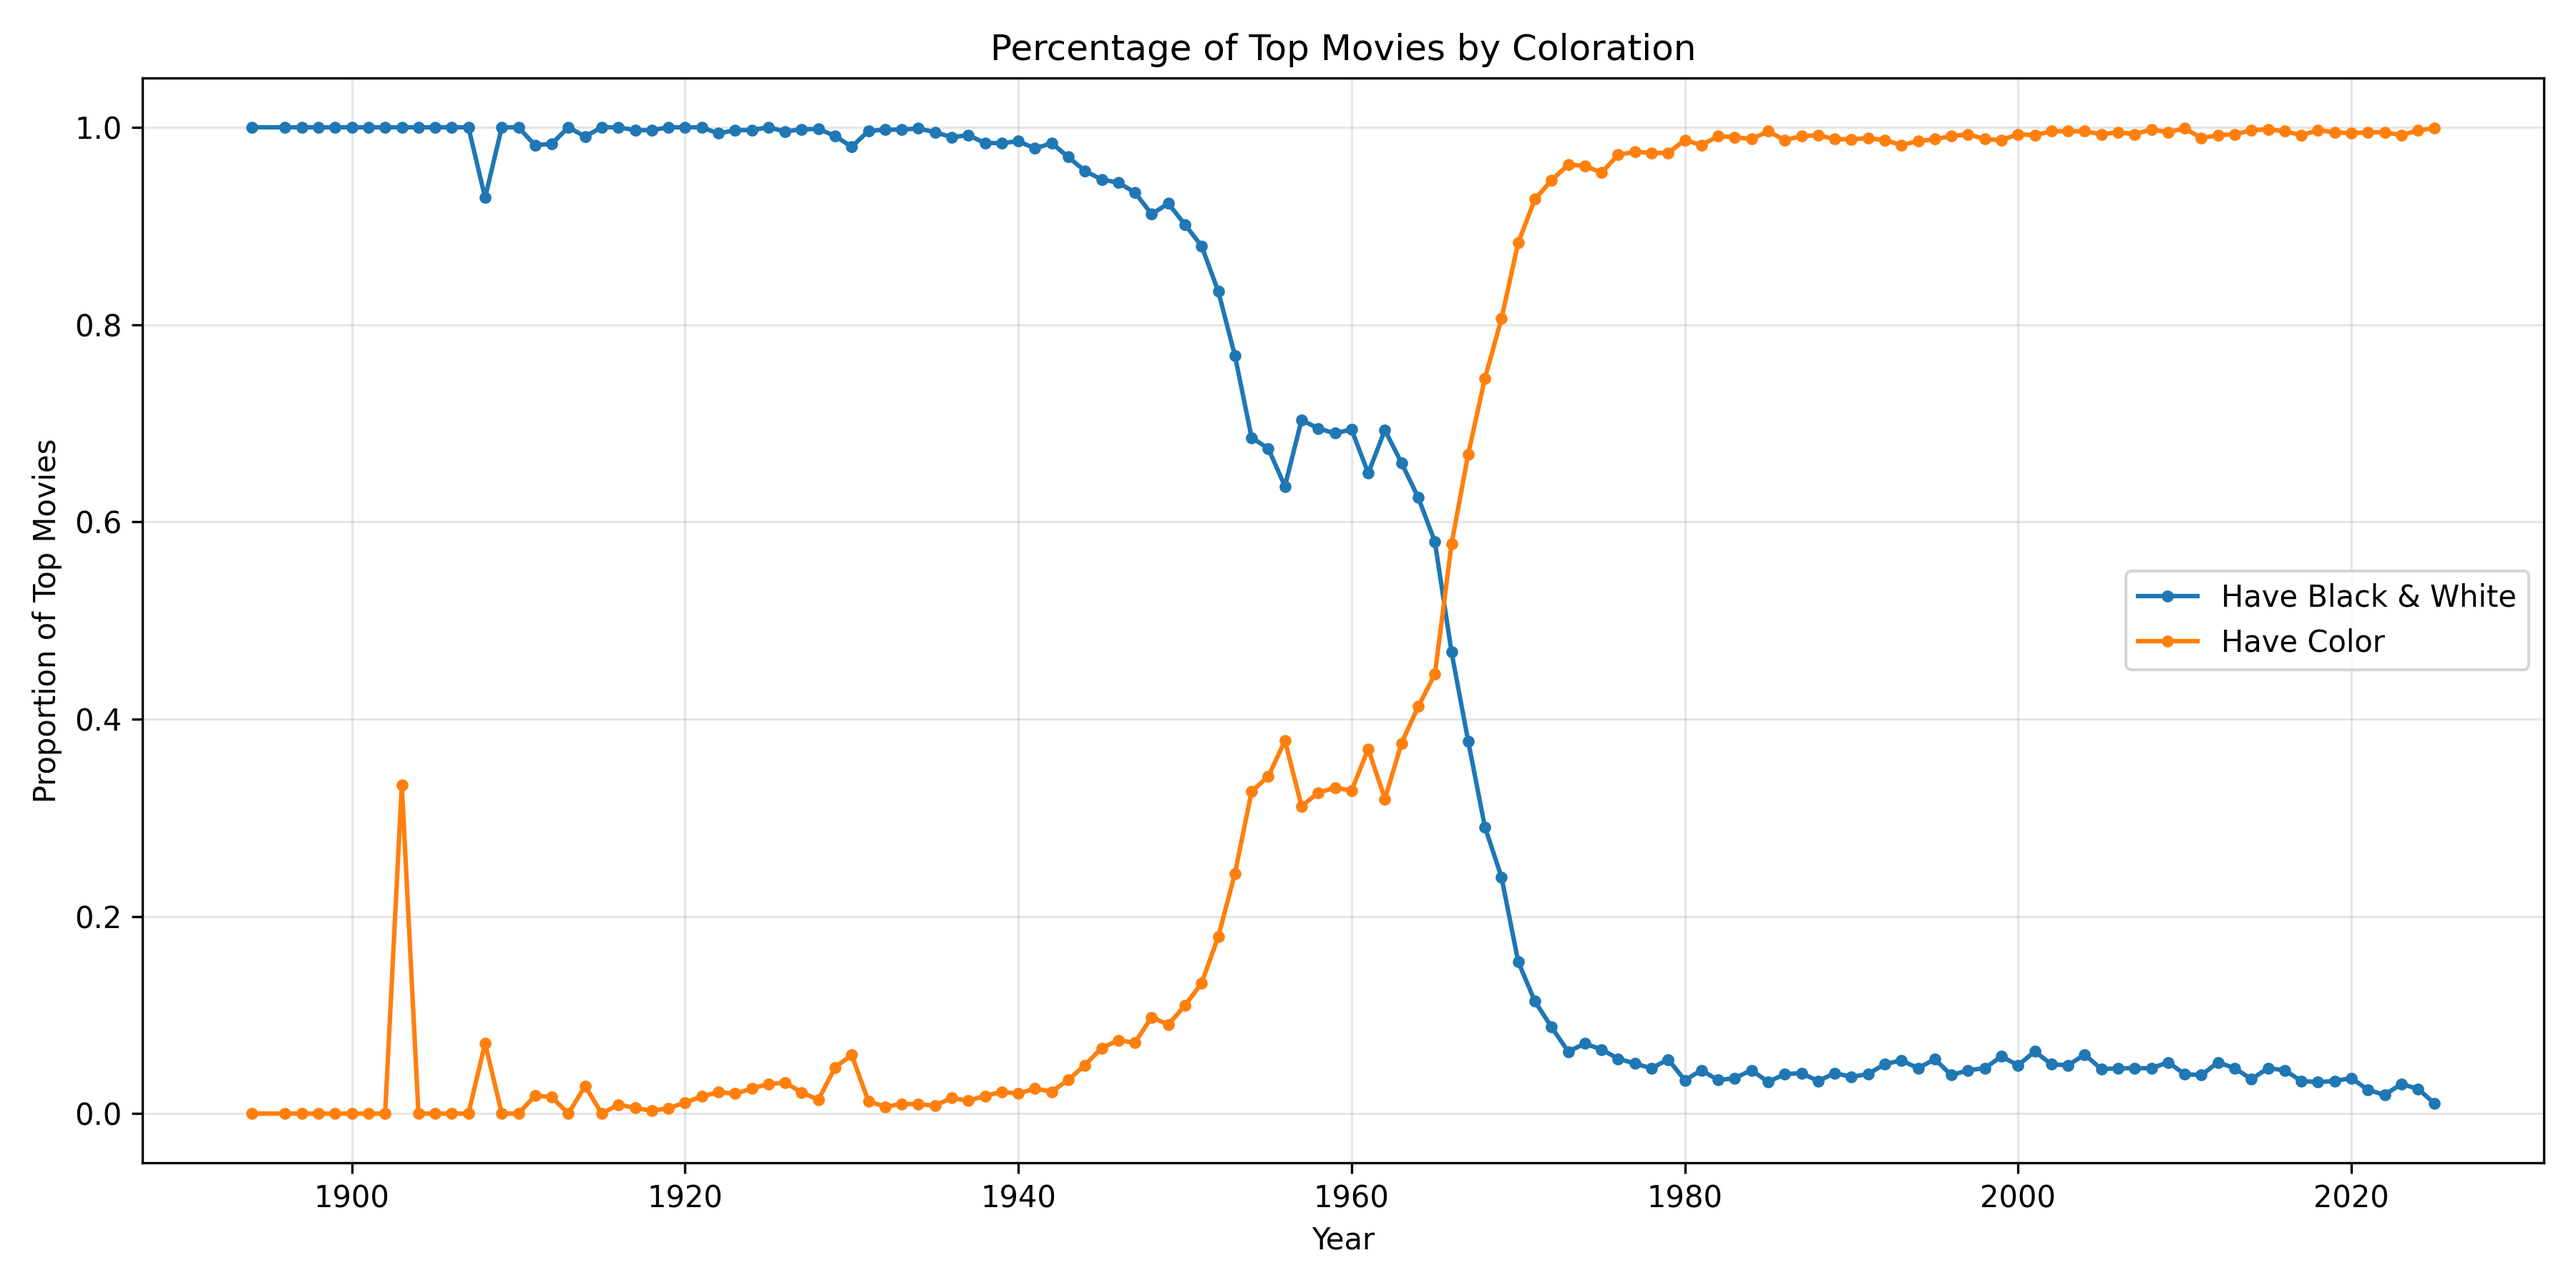
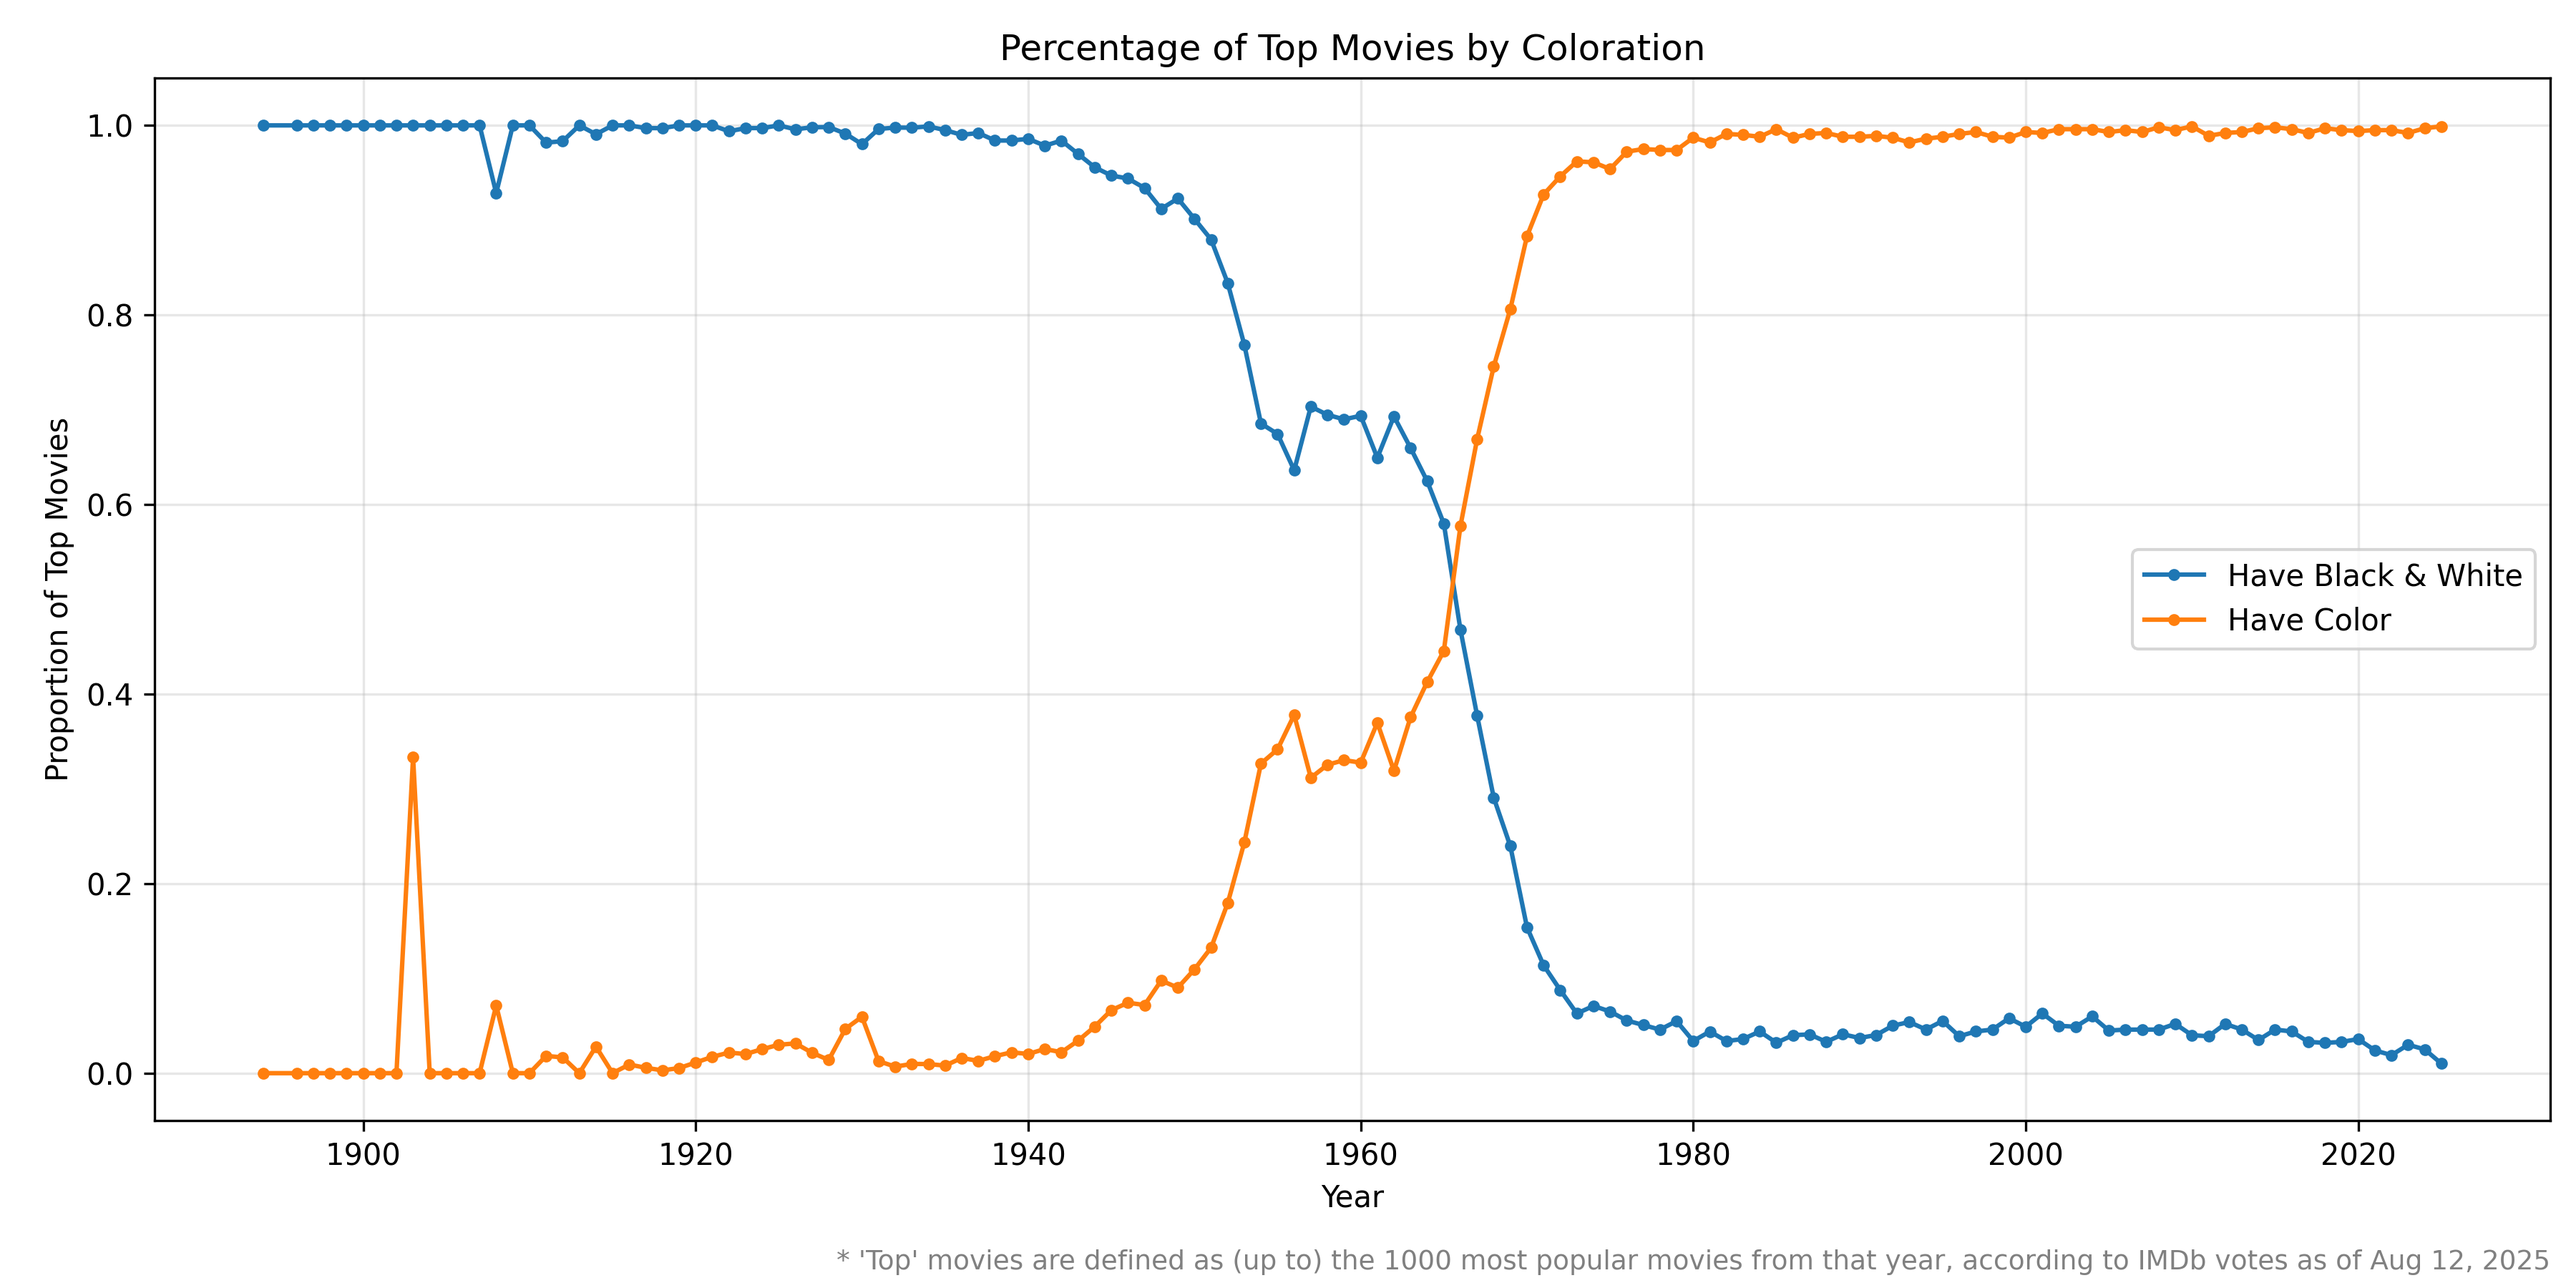
Add in disclaimer

diff --git a/plot.py b/plot.py
@@ -20,6 +20,11 @@ plt.xlabel("Year")
 plt.ylabel("Proportion of Top Movies")
 plt.legend()
 plt.grid(True, alpha=0.3)
-plt.tight_layout()
+plt.tight_layout(rect=[0,0.05,1,1])
+plt.subplots_adjust(left=0.06, right=0.99, bottom=0.13)
+plt.figtext(0.99, 0.01,
+            "* 'Top' movies are defined as (up to) the 1000 most popular movies from that year, according to IMDb votes as of Aug 12, 2025",
+            ha="right", va="bottom",
+            fontsize=9, color="gray")
 plt.savefig("coloration.png", dpi=300)
 plt.show()
